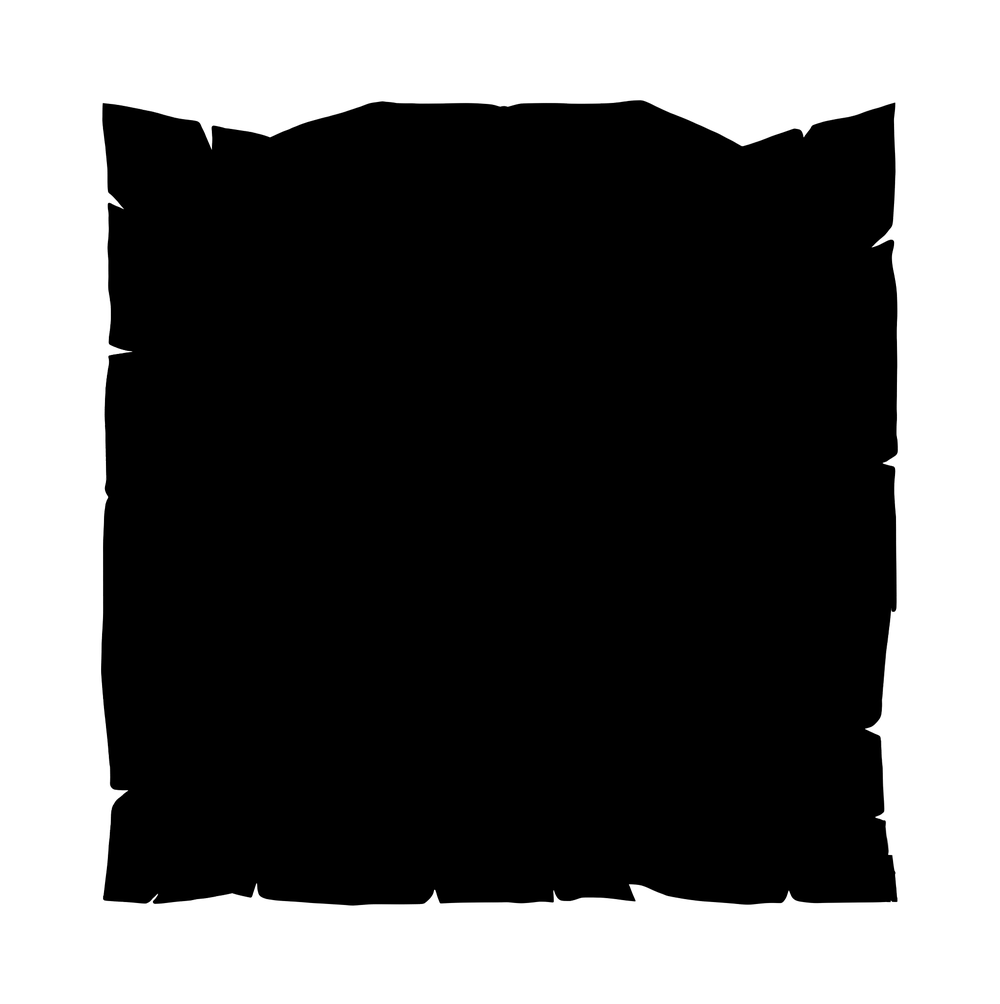
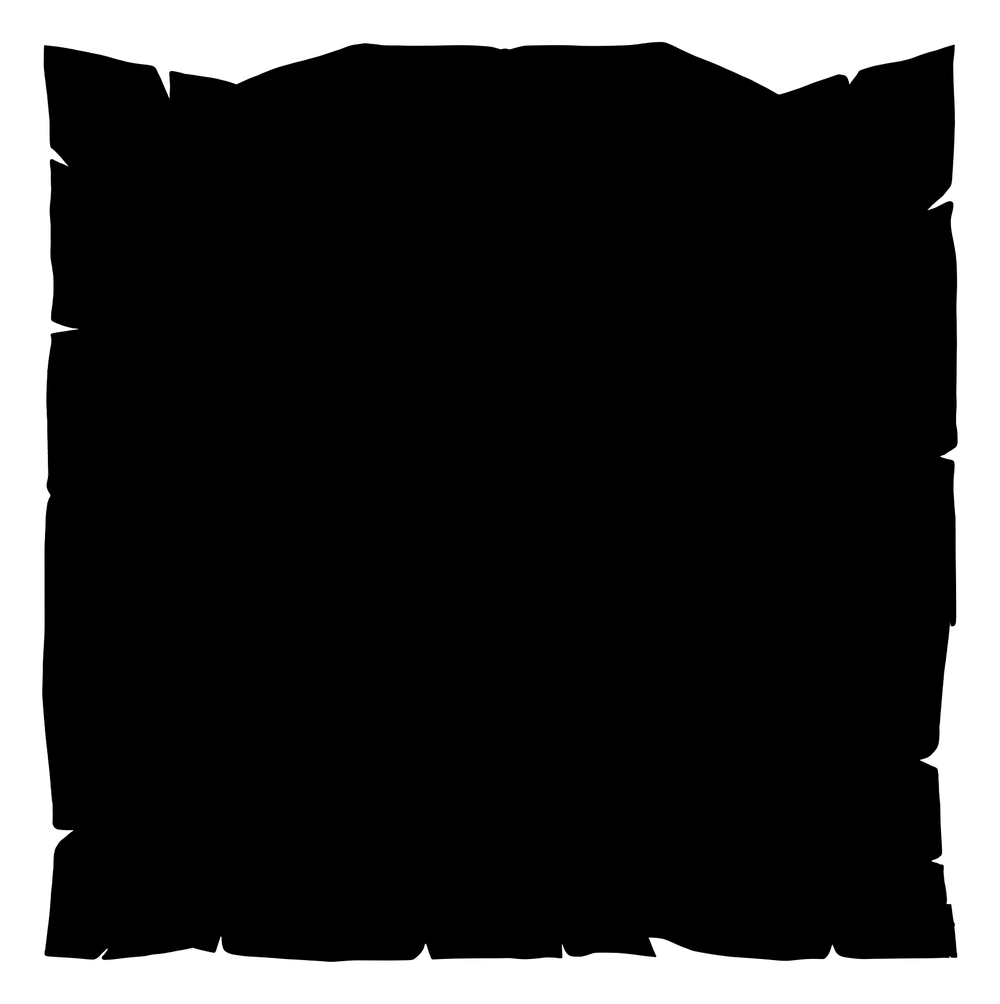
Mapa: maska rozciągnięta na pergamin, widoczny poszarpany brzeg

Changed region(s): [[0.031, 0.0309, 0.961, 0.9572]]

diff --git a/src/components/ParchmentMap.jsx b/src/components/ParchmentMap.jsx
@@ -13,10 +13,14 @@ export default function ParchmentMap({ query, mapsUrl, address }) {
   return (
     <div className="pmap" style={{ '--mask': `url(${innerMask.src})` }}>
       <Image className="pmap__paper" src={parchment} alt="" fill sizes="(max-width: 900px) 92vw, 580px" />
-      <div className="pmap__map">
-        <iframe src={src} title={`Mapa dojazdu – ${address}`} loading="lazy" referrerPolicy="no-referrer-when-downgrade" />
+      {/* .pmap__cut: cień i ciemniejszy brzeg wzdłuż poszarpanej krawędzi (filtr musi być na rodzicu –
+          na elemencie z maską przycięłaby go sama maska) */}
+      <div className="pmap__cut">
+        <div className="pmap__map">
+          <iframe src={src} title={`Mapa dojazdu – ${address}`} loading="lazy" referrerPolicy="no-referrer-when-downgrade" />
+        </div>
+        <Image className="pmap__texture" src={parchment} alt="" fill sizes="(max-width: 900px) 92vw, 580px" aria-hidden="true" />
       </div>
-      <Image className="pmap__texture" src={parchment} alt="" fill sizes="(max-width: 900px) 92vw, 580px" aria-hidden="true" />
       <div className="pmap__card">
         <strong>{address}</strong>
         <a className="btn btn--solid" href={mapsUrl} target="_blank" rel="noopener">

diff --git a/src/styles/globals.css b/src/styles/globals.css
@@ -1668,6 +1668,16 @@ a { color: inherit; }
 
   & .pmap__paper { object-fit: contain; }
 
+  & .pmap__cut {
+    position: absolute;
+    inset: 0;
+    /* poszarpany brzeg mapy: cienka „przypalona” krawędź + miękki cień pod kawałkiem papieru */
+    filter:
+      drop-shadow(0 0 1px rgb(74 46 22 / .95))
+      drop-shadow(0 0 3px rgb(92 60 28 / .45))
+      drop-shadow(0 4px 8px rgb(50 32 14 / .3));
+  }
+
   & .pmap__map {
     position: absolute;
     inset: 0;
